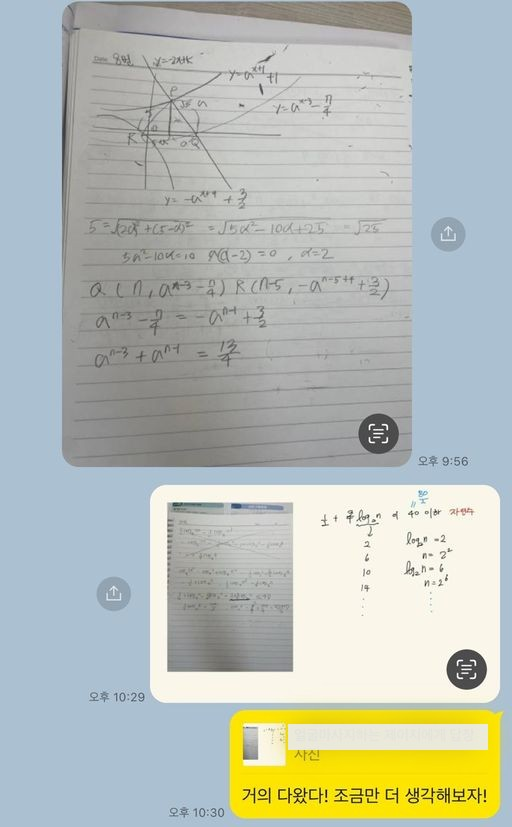
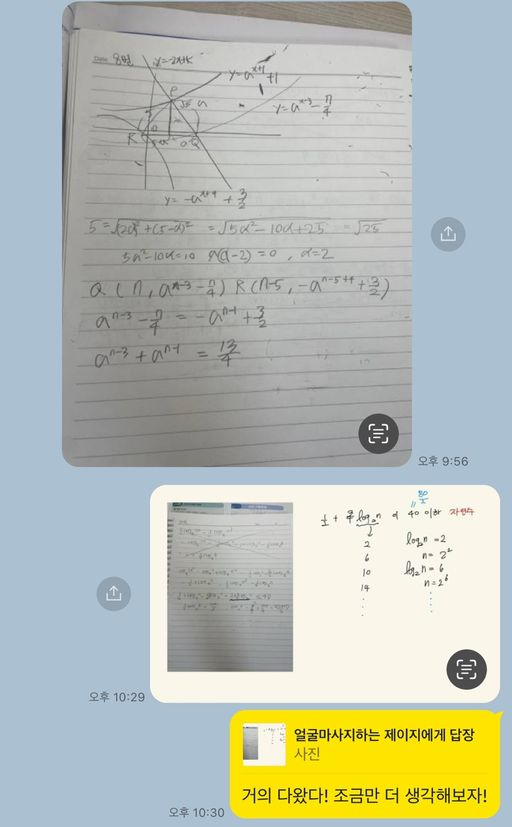
카톡 원본 복원, 소개 문구 개선

Changed region(s): [[0.5312, 0.8464, 0.9688, 0.9371]]

diff --git a/index.html b/index.html
@@ -238,6 +238,18 @@ section.block { padding-block: clamp(48px, 7vw, 88px); border-top: 1px solid var
 .phone { font: 600 clamp(1.5rem, 1.2rem + 1.4vw, 2rem) var(--font-mono); letter-spacing: 0.02em; user-select: all; color: var(--ink); }
 .phone-box .btns { display: flex; flex-wrap: wrap; gap: 8px; }
 .copied { font-size: var(--step--1); color: var(--blue); min-height: 1.4em; }
+.template { margin-top: 18px; display: grid; gap: 8px; justify-items: start; }
+.template .label { font-size: var(--step--1); color: var(--ink-soft); }
+.template pre { margin: 0; width: 100%; font: 500 var(--step--1)/1.6 var(--font-mono); white-space: pre-wrap; background: var(--paper-2); border: 1px solid var(--line); border-radius: 6px; padding: 10px 12px; color: var(--ink); }
+
+/* 이 페이지에서 알게 되는 것 */
+.gains-band { padding-block: 0 clamp(36px, 5vw, 60px); }
+.gains { border: 1.5px dashed var(--blue); border-radius: var(--radius); padding: 18px 20px; background: color-mix(in srgb, var(--card) 70%, transparent); }
+.gains .g-title { font-weight: 700; }
+.gains ul { list-style: none; margin: 10px 0 0; padding: 0; display: grid; grid-template-columns: repeat(3, 1fr); gap: 10px 20px; }
+.gains li { display: grid; grid-template-columns: 1.2rem 1fr; gap: 6px; color: var(--ink-soft); font-size: 0.96em; }
+.gains li::before { content: "✓"; color: var(--red); font-weight: 700; }
+@media (max-width: 760px) { .gains ul { grid-template-columns: 1fr; } }
 
 footer { padding-block: 32px 48px; color: var(--ink-soft); font-size: var(--step--1); }
 footer .wrap { display: flex; flex-wrap: wrap; justify-content: space-between; gap: 10px; }
@@ -262,9 +274,9 @@ footer .wrap { display: flex; flex-wrap: wrap; justify-content: space-between; g
   <section class="hero">
     <div class="wrap">
       <div>
-        <div class="eyebrow">수능 수학 1:1 과외 · 노베이스·중위권</div>
-        <h1>4등급에서 두 번 멈췄고,<br>세 번째에 <span class="mark">1등급</span>이 됐습니다.</h1>
-        <p class="lede">수능 수학은 같은 개념을 매번 다른 모양으로 묻습니다. 그래서 외우는 공부로는 4등급 벽을 넘기 어렵습니다. 제가 3수를 하며 만든 ‘공식화’ 공부법 3가지로, 이해를 바탕으로 한 뼈대부터 세웁니다.</p>
+        <div class="eyebrow">노베이스·중위권 전용 · 수능 수학 1:1 과외</div>
+        <h1>수학 4등급만 두 번.<br>세 번째 수능에서 <span class="mark">1등급</span>을 만든 공부법 3가지</h1>
+        <p class="lede">내신 6~7등급, 첫 수능 4등급, 재수해도 또 4등급. 머리가 나빠서가 아니었습니다. 개념을 외우기만 했기 때문입니다. 3수 끝에 백분위 96을 만든 ‘키워드 순서도’ 공부법을 시범과외 ‘MATH X-RAY’에서 바로 보여 드립니다.</p>
         <div class="cta">
           <a class="btn" href="#apply">시범과외 신청하기</a>
           <a class="btn ghost" href="#methods">공부법 먼저 보기</a>
@@ -306,20 +318,33 @@ footer .wrap { display: flex; flex-wrap: wrap; justify-content: space-between; g
     </div>
   </section>
 
+  <section class="gains-band" aria-label="이 페이지에서 알게 되는 것">
+    <div class="wrap">
+      <div class="gains">
+        <p class="g-title">이 페이지를 끝까지 보면 알게 되는 것</p>
+        <ul>
+          <li>열심히 해도 4등급에서 멈추는 진짜 이유</li>
+          <li>2023 수능 21번을 키워드 다섯 개로 푸는 방법</li>
+          <li>내 빈 개념을 하루 만에 찾는 시범과외 MATH X-RAY</li>
+        </ul>
+      </div>
+    </div>
+  </section>
+
   <section class="block" id="story">
     <div class="wrap">
       <div class="sec-head">
         <div class="eyebrow">성적 증명</div>
-        <h2>3수 끝에 노베이스를 탈출한 이야기</h2>
-        <p>지금 노베이스인 학생에게 공감이 되었으면 해서, 제 4년을 짧게 정리했습니다.</p>
+        <h2>두 번 실패하고, 세 번째에 1등급이 된 이유</h2>
+        <p>중요한 건 1등급이라는 결과보다, 두 번이나 4등급에서 멈췄던 이유입니다. 지금 노베이스라면 아래 4년이 남 얘기 같지 않을 겁니다.</p>
       </div>
       <div class="story">
         <ol class="timeline">
           <li><div class="yr">고등학교</div><div><strong>내신·모의고사 6~7등급</strong><p>수학 분반은 늘 가장 낮은 C반이었습니다.</p></div></li>
           <li><div class="yr">2017 수능</div><div><strong>첫 수능 <span class="gd">4등급</span></strong><p>고3 막판 인강으로 공부했지만, 사실 원래 실력은 5등급이었습니다. 찍어서 세 문제를 맞혔습니다.</p></div></li>
           <li><div class="yr">2018 수능</div><div><strong>재수, 또 <span class="gd">4등급</span></strong><p>1년 동안 인강을 다시 들었지만 백분위만 조금 올랐습니다. 성적에 맞춰 지방 대학에 입학했습니다.</p></div></li>
-          <li><div class="yr">휴학</div><div><strong>돌아가지 않겠다는 각오로 3수 시작</strong><p>이번엔 한 문제마다 개념과 출제 의도를 분석하고, 저만의 공부 루틴을 만들어 반복했습니다.</p></div></li>
-          <li class="win"><div class="yr">2021 수능</div><div><strong>수학 <span class="gd">1등급</span> · 백분위 96</strong><p>그 루틴을 정리한 것이 아래의 공부법 3가지입니다.</p></div></li>
+          <li><div class="yr">휴학</div><div><strong>돌아가지 않겠다는 각오로 3수 시작</strong><p>그때 알았습니다. 인강을 더 듣는 게 아니라 공부 방식을 바꿔야 한다는 걸. 한 문제마다 개념과 출제 의도를 분석하고, 저만의 루틴을 만들어 반복했습니다.</p></div></li>
+          <li class="win"><div class="yr">2021 수능</div><div><strong>수학 <span class="gd">1등급</span> · 백분위 96</strong><p>같은 사람, 다른 공부법. 운이 아니라 방법이었다는 증거입니다. 그 루틴을 정리한 것이 아래 공부법 3가지입니다.</p></div></li>
         </ol>
         <div class="scores">
           <figure class="win">
@@ -346,7 +371,7 @@ footer .wrap { display: flex; flex-wrap: wrap; justify-content: space-between; g
       <div class="sec-head">
         <div class="eyebrow">핵심 공부법 3가지</div>
         <h2>외우지 않고, 공식화합니다</h2>
-        <p>1년 동안 실제로 적용하고, 수많은 실패 끝에 스스로 증명한 방법입니다. 세 가지는 순서대로 쓰입니다. 키워드로 접근하고, 문장을 수학의 언어로 바꾸고, 실력에 맞춰 양을 늘립니다.</p>
+        <p>4점짜리 20·21·22번에 손도 못 대는 건 개념을 몰라서가 아니라 개념을 연결하지 못해서입니다. 아래 세 가지는 제가 1년 동안 직접 적용하고 성적으로 증명한 방법이고, 순서대로 씁니다. 키워드로 접근하고, 문장을 수학의 언어로 바꾸고, 실력에 맞춰 양을 늘립니다.</p>
       </div>
 
       <div class="methods">
@@ -482,7 +507,7 @@ footer .wrap { display: flex; flex-wrap: wrap; justify-content: space-between; g
         </ul>
         <div class="proof">
           <figure>
-            <img src="images/kakao-qna.jpeg" alt="카카오톡으로 학생의 풀이 사진에 답하는 질의응답 예시" loading="lazy" width="512" height="827">
+            <img src="images/kakao-qna.jpeg?v=orig" alt="카카오톡으로 학생의 풀이 사진에 답하는 질의응답 예시" loading="lazy" width="512" height="827">
             <figcaption>카톡 질의응답</figcaption>
           </figure>
           <figure>
@@ -499,13 +524,20 @@ footer .wrap { display: flex; flex-wrap: wrap; justify-content: space-between; g
       <div class="apply">
         <div>
           <div class="eyebrow">시범과외 신청</div>
-          <h2 style="margin-top:10px">중위권 탈출까지 남은 건<br>여러분의 선택입니다</h2>
-          <p>문의를 남겨 주신 분에 한해 시범과외를 진행합니다. 시범과외에서 제가 노베이스를 벗어난 노하우를 모두 공개합니다.</p>
+          <h2 style="margin-top:10px">지금 4등급이어도 괜찮습니다.<br>저도 두 번이나 그랬으니까요.</h2>
+          <p>달랐던 건 머리가 아니라 공부법 하나였습니다. 시범과외 MATH X-RAY에서는 그 공부법으로 지금 빠진 개념과 풀이 습관을 그날 바로 짚어 드립니다. 정규 수업을 듣지 않더라도 진단 결과는 그대로 가져가시면 됩니다.</p>
+          <p>시범과외는 문자로 문의를 남긴 학생에게만 진행합니다.</p>
           <ol class="howto">
-            <li>아래 번호로 문자를 남겨 주세요. (학생 학년, 최근 수학 등급, 지역)</li>
-            <li>간단한 학생 상담을 진행합니다.</li>
-            <li>시범과외(MATH X-RAY) 일정을 잡습니다.</li>
+            <li>아래 양식대로 문자 한 통을 보냅니다.</li>
+            <li>간단한 상담 후 시범과외 날짜를 잡습니다.</li>
+            <li>MATH X-RAY에서 빈 개념과 풀이 습관을 진단받습니다.</li>
           </ol>
+          <div class="template">
+            <div class="label">문자 양식 (예시)</div>
+            <pre id="tpl">[시범과외] 고2 / 최근 모의고사 수학 5등급 / 지역: 강서구</pre>
+            <button class="btn ghost sm" type="button" id="tplBtn">양식 복사</button>
+            <div class="copied" id="tplCopied" aria-live="polite"></div>
+          </div>
         </div>
         <div class="phone-box">
           <div class="label">과외 문의 (문자)</div>
@@ -539,6 +571,18 @@ document.getElementById("copyBtn").addEventListener("click", function () {
   }
   try {
     navigator.clipboard.writeText(num).then(function () { out.textContent = "번호를 복사했어요."; }, selectIt);
+  } catch (e) { selectIt(); }
+});
+document.getElementById("tplBtn").addEventListener("click", function () {
+  var out = document.getElementById("tplCopied");
+  var el = document.getElementById("tpl");
+  function selectIt() {
+    var r = document.createRange(); r.selectNodeContents(el);
+    var s = window.getSelection(); s.removeAllRanges(); s.addRange(r);
+    out.textContent = "양식을 선택해 두었어요. 길게 눌러 복사하세요.";
+  }
+  try {
+    navigator.clipboard.writeText(el.textContent.trim()).then(function () { out.textContent = "양식을 복사했어요. 학년·등급·지역만 바꿔서 보내 주세요."; }, selectIt);
   } catch (e) { selectIt(); }
 });
 </script>
